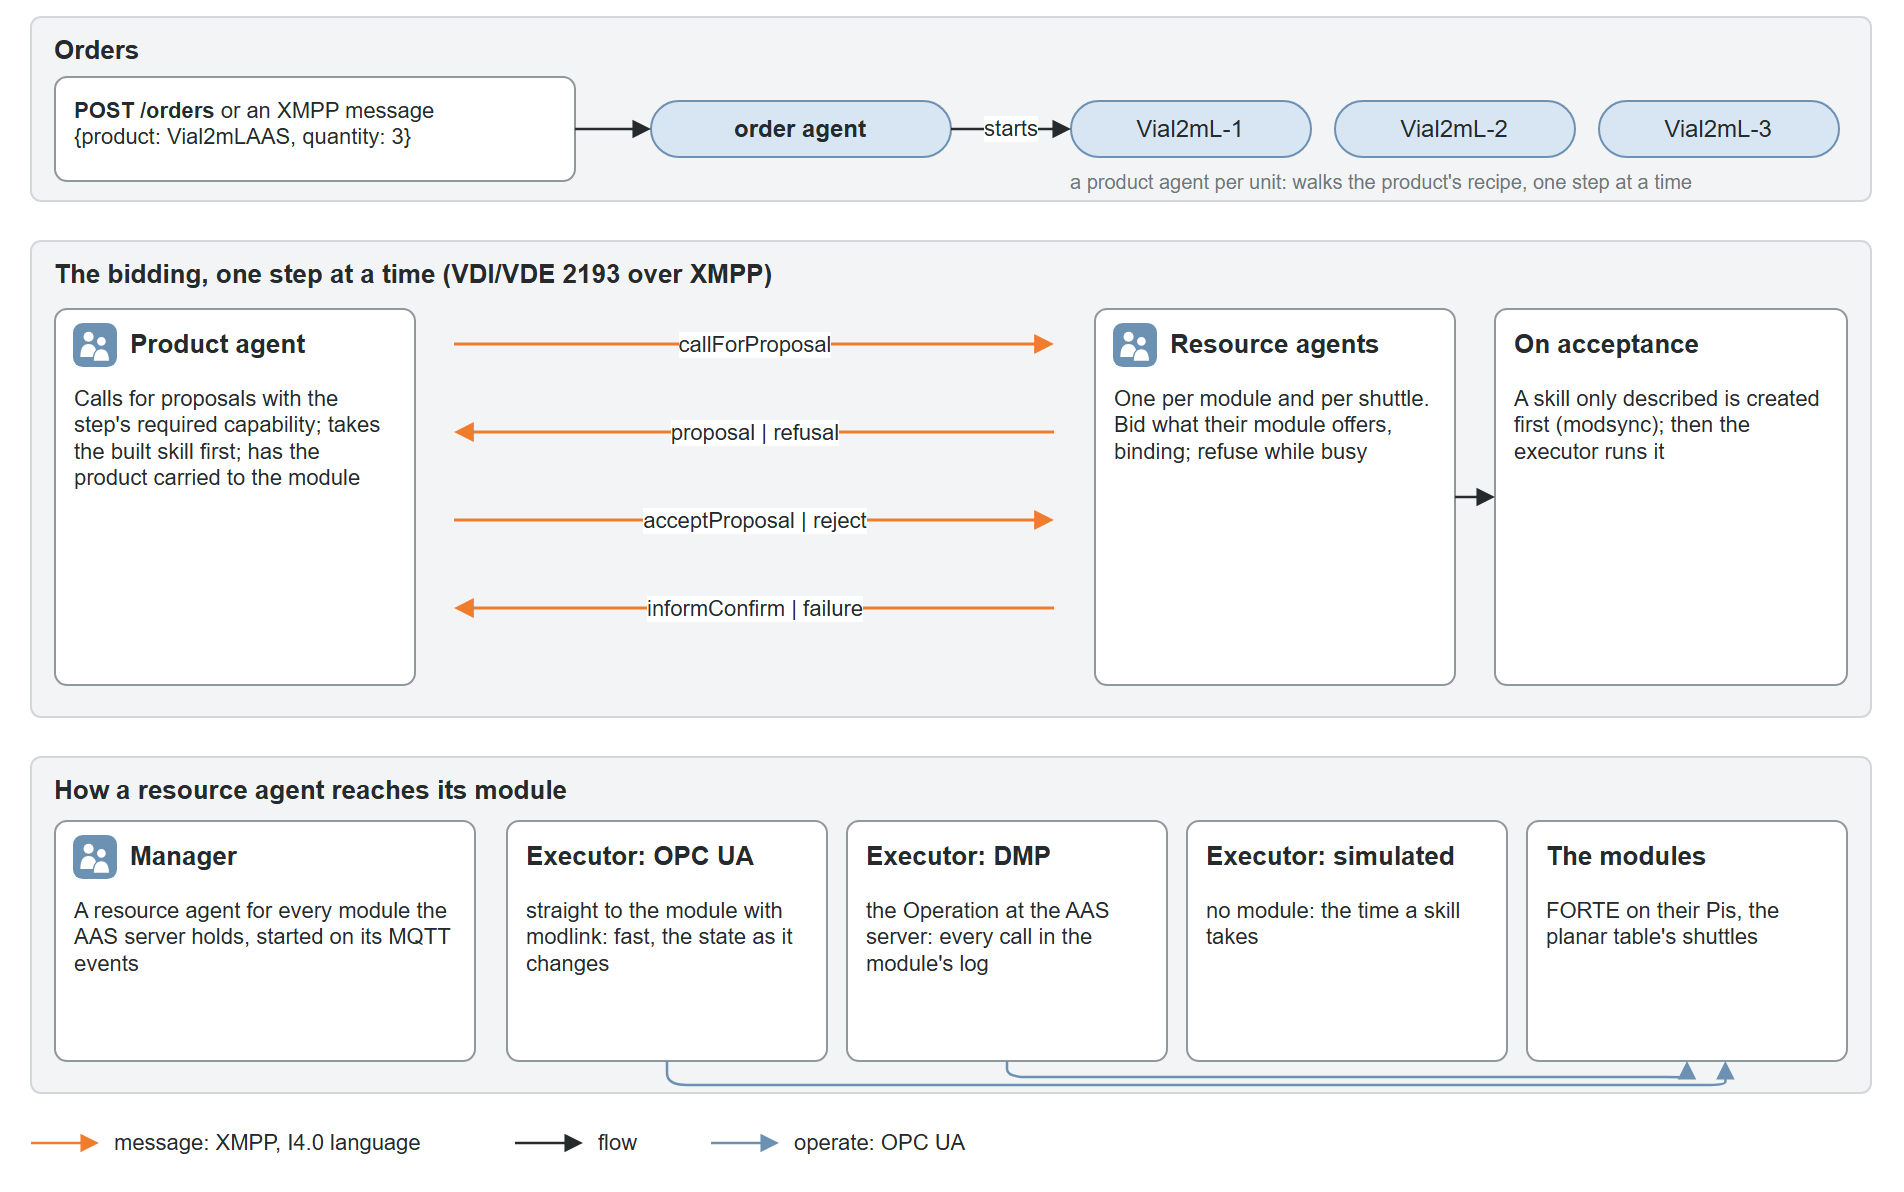
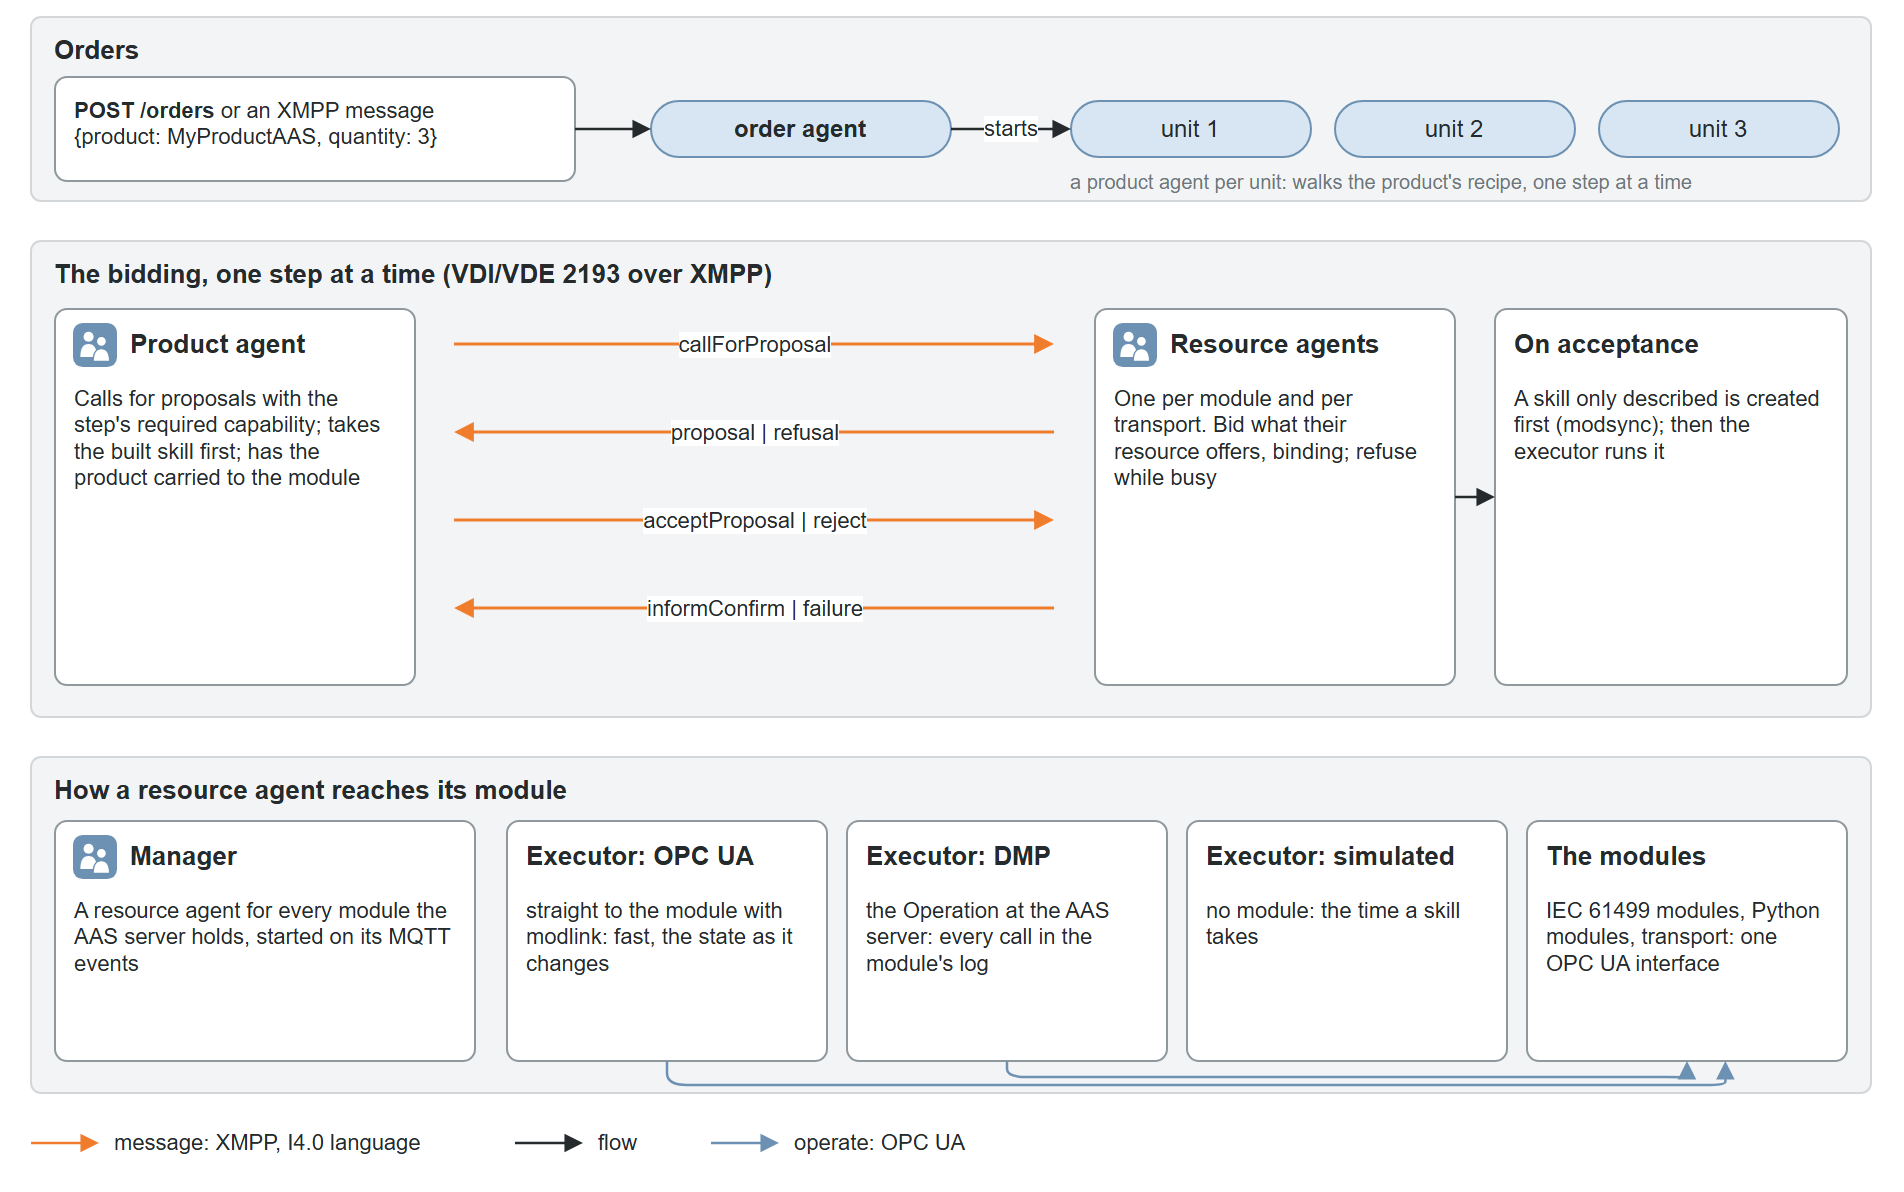
Execution pages and figures: choose an orchestrator; wrap any machine as a module

diff --git a/docs/execution/agents.md b/docs/execution/agents.md
@@ -2,9 +2,9 @@
 
 <span class="pillar execution">Execution</span> `lineagents`: the multi-agent orchestrator. A product
 agent per unit ordered walks its product's recipe and asks for one step at a time; a resource agent per
-module and per shuttle bids for the steps its resource can carry out and carries out the steps it wins.
-SPADE over XMPP, speaking the I4.0 language of VDI/VDE 2193. Folder `line-agents/`; becomes the
-`lineagents` repository.
+module and per transport bids for the steps its resource can carry out and carries out the steps it
+wins. SPADE over XMPP, speaking the I4.0 language of VDI/VDE 2193. Repository
+[AAS-MAS](https://github.com/AAU-AASPIRE/AAS-MAS).
 
 <figure markdown="span">
   [![Orders starting a product agent per unit; the bidding between a product agent and the resource
@@ -18,16 +18,16 @@ SPADE over XMPP, speaking the I4.0 language of VDI/VDE 2193. Folder `line-agents
 
 | Part | Runs | Does |
 | --- | --- | --- |
-| A module | its Raspberry Pi: FORTE and the module's program | Occupation, its states, its skills over OPC UA; announces itself |
+| A module | its own controller: FORTE and the module's program | Occupation, its states, its skills over OPC UA; announces itself |
 | Its AAS | the AAS server | What it is and offers |
 | **The manager** | the server (`python -m lineagents`) | A resource agent for every module the AAS server holds, started on the server's MQTT events and stopped when the AAS goes; the order agent |
 | **The order agent** | in the manager | Takes an order (product, quantity) over XMPP or HTTP and starts a product agent per unit |
 | **A product agent** | in the manager | Walks its product's steps: calls for proposals, chooses, has the product carried to the module, reports to whoever ordered |
 | **A resource agent** | in the manager | Bids what its resource offers; creates a described skill first when its bid is accepted; runs the skill |
 
-Agents run on the server, not on the Pis: the Pi runs the module's control program and nothing that
-decides. The module stays what it is delivered as, an IEC 61499 program and an AAS, and the agents
-stay replaceable.
+The agents run on the server, not on the modules' devices: a device runs the module's control program
+and nothing that decides. The module stays what it is delivered as, an IEC 61499 program and an AAS,
+and the agents stay replaceable.
 
 ## The bidding
 
@@ -36,11 +36,11 @@ every resource agent. Each answers with a **proposal** (the offered capability t
 the skill that realizes it, whether it is built or only described) or a **refusal**. A proposal is
 binding: the resource refuses others, saying it is busy, until the product agent decides. The product
 agent takes a proposal whose skill is built before one that needs a reconfiguration, has the product
-carried to the module by a shuttle, **accepts** it and rejects the rest; the resource agent **informs**
-of the result or of the failure. A failed step is asked for again of the others.
+carried to the module, **accepts** it and rejects the rest; the resource agent **informs** of the
+result or of the failure. A failed step is asked for again of the others.
 
 Custody decides who may carry a product: a resource holds a product from the Receiving it carried out
-until the Releasing, and only the shuttle that holds a product transports it.
+until the Releasing, and only the transport that holds a product moves it.
 
 ## Reaching the module
 
@@ -53,20 +53,19 @@ until the Releasing, and only the shuttle that holds a product transports it.
 ## Use it
 
 ```powershell
-python -m pip install -e ".[agents]"
-python -m lineagents --aas http://localhost:8081 --embedded                        # a resource agent per module
-python -m lineagents --aas http://localhost:8081 --embedded --order Vial2mLAAS:3   # ... and three vials
-python -m lineagents --aas http://localhost:8081 --mqtt localhost:1883 --http 8095  # in the lab stack (Prosody)
+python -m pip install -e AAS-MAS
+python -m lineagents --aas http://localhost:8081 --embedded                          # a resource agent per module
+python -m lineagents --aas http://localhost:8081 --embedded --order <Product>AAS:3   # ... and three units
+python -m lineagents --aas http://localhost:8081 --mqtt localhost:1883 --http 8095    # in the server stack (Prosody)
 ```
 
-`--embedded` runs SPADE's own XMPP server in the process; in the lab stack the agents use Prosody.
+`--embedded` runs SPADE's own XMPP server in the process; in the server stack the agents use Prosody.
 `--executor opcua|dmp|simulated` chooses how skills run; `--http` takes orders over HTTP too
-(`POST /orders {"product": "Vial2mLAAS", "quantity": 3}`).
+(`POST /orders {"product": "<Product>AAS", "quantity": 3}`).
 
-Built since 30 October 2026: discovery to agent within seconds, bidding, transport by the shuttles with
-custody (on simulated shuttles), a step that needs a reconfiguration. To come before the demo in
-January: the loading and unloading modules, the agents on the filling Pi, a planned skill in a bid,
-failure handling, the Orders app.
+Start with `--executor simulated` to watch the bidding without any hardware, then switch to `opcua`
+against [a module on a PC](../how-to/simulation.md).
 
-Read further: [agents.md](https://github.com/AAU-AASPIRE/aaspire-internal/blob/main/docs/agents.md),
-[agents-literature.md](https://github.com/AAU-AASPIRE/aaspire-internal/blob/main/docs/agents-literature.md).
+Built: discovery to agent within seconds, bidding, transport with custody (on simulated shuttles), a
+step that needs a reconfiguration. Still to come: a planned skill in a bid, failure handling, the
+Orders app.

diff --git a/docs/execution/index.md b/docs/execution/index.md
@@ -2,28 +2,30 @@
 
 <span class="pillar execution">Execution</span> A product is made by running its recipe's steps on the
 line's resources. Which resource does which step, and when, is the orchestrator's decision. AASPIRE
-runs one line with two orchestrators, and only the orchestration differs between them.
+keeps everything below the orchestrator the same, so you can choose how the line is orchestrated, and
+change your mind later.
 
-| Orchestrator | How it decides | Built by |
+| Orchestrator | How it decides | In AASPIRE |
 | --- | --- | --- |
-| **Centralized** | FOND-AAS plans a policy for the order with PDDL from the AASs; the BT controller runs it as a behaviour tree (watched in Groot2) | the colleagues (Schwörer et al.) |
-| **Multi-agent** | A product agent per unit asks for one step at a time; the resources' agents bid; the product agent chooses ([line agents](agents.md)) | this repository (`lineagents`) |
+| **Centralized** | A planner makes a policy for the order (PDDL, from the AASs); a behaviour tree runs it | bring your own planner and behaviour tree; they read the same AASs |
+| **Multi-agent** | A product agent per unit asks for one step at a time; the resources' agents bid; the product agent chooses | [line agents](agents.md) (`lineagents`) |
 
-## What both share
+## What every orchestrator shares
 
 | Shared | What it is |
 | --- | --- |
-| The models | The resource, product and process AASs: skills, capabilities, interfaces, variables; the product's recipe. Both start from the same order |
+| The models | The resource, product and process AASs: skills, capabilities, interfaces, variables; the product's recipe. Every orchestrator starts from the same order |
 | The modules | ModLib's behaviour in IEC 61499: occupation, the PackML module state, each skill's state machine, the skills as OPC UA methods |
 | Running a skill | The same five steps, by the same route (below) |
 | Integration | Registration and discovery; the DMP |
 | Reconfiguration | A planned or described skill created online by modsync before it runs |
-| The line | The same modules, the [planar table](planar-controller.md), the simulators |
+| The line | The same modules, the transport, the simulators |
 
 ## Running a skill
 
 Every orchestrator runs a skill on a module the same way, straight over OPC UA
-([modlink](../integration/modlink.md)) or through the AAS server and the [DMP](../integration/dmp.md):
+([modlink](../integration/modlink.md)) or through the AAS server and the [DMP](../integration/dmp.md).
+If you write an orchestrator of your own, this is all it needs to do per step:
 
 1. **occupy** the module with a session id: from then on only that session commands it;
 2. **bring it to Execute** (Clear, Reset, Start, as its PackML state needs);
@@ -31,15 +33,19 @@ Every orchestrator runs a skill on a module the same way, straight over OPC UA
 4. **wait for its end**: Succeeded, Failed or Aborted, with an error id and the results;
 5. **release** the module.
 
-Occupation is also the handover between the two orchestrators: whoever holds a module commands it, so
-the line passes from one to the other between orders, once every module is released.
+Occupation is also the handover between orchestrators: whoever holds a module commands it, so a line
+can pass from one orchestrator to another between orders, once every module is released.
 
-## One scenario for both
+## Comparing orchestrators
 
-The comparison planned for the journal paper: one scenario of orders and events (a module failing, a
-rush order, a module plugged in), run by both orchestrators and measured the same way: the time to
-finish the orders, the reaction to a failure, the time until a module plugged in is used, and the work
-to set each up.
+Because only the orchestration differs, two orchestrators can be compared fairly: run one scenario of
+orders and events (a module failing, a rush order, a module plugged in) with each, and measure the time
+to finish the orders, the reaction to a failure, the time until a module plugged in is used, and the
+work to set each up.
 
-Read further: [framework-plan.md](https://github.com/AAU-AASPIRE/aaspire-internal/blob/main/docs/framework-plan.md),
-section 1; [agents.md](https://github.com/AAU-AASPIRE/aaspire-internal/blob/main/docs/agents.md).
+## Machines that are not IEC 61499 modules
+
+A robot or a transport system with its own controller joins the line by offering the same interface:
+occupation, PackML states and skills over OPC UA, and an AAS. The
+[planar controller](planar-controller.md) does this for a planar motor table; `modpy` in
+aaspire-tools does it for a module written in Python.

diff --git a/docs/execution/planar-controller.md b/docs/execution/planar-controller.md
@@ -1,8 +1,11 @@
 # Planar controller
 
-<span class="pillar execution">Execution</span> `planar-controller`: controls a Planar Motor table and
-offers it over OPC UA, built like the generated IEC 61499 modules, so the orchestrators treat the table
-and each shuttle as modules. Python in Docker. Submodule `planar-controller/`.
+<span class="pillar execution">Execution</span> How to bring a machine with its own controller into
+the line: wrap it so that it offers the same interface as every IEC 61499 module (occupation, PackML
+states, skills over OPC UA) and give it an AAS. The orchestrators then treat it as one more module.
+`planar-controller` does this for a Planar Motor table, offering the table and each shuttle as
+modules; follow the same pattern for a robot, a conveyor or any other machine. Python in Docker.
+Repository [planar-controller](https://github.com/AAU-AASPIRE/planar-controller).
 
 <figure markdown="span">
   [![The table with its xbots on a grid of flyways, the controller and its modules over OPC UA, and its
@@ -25,7 +28,9 @@ The table (`PlanarTable`) and one module per xbot (`PlanarShuttle<N>`), in the n
 | `Equipment/Xbot/X`, `Y`, `Rz`, `XbotState` | a shuttle's live pose |
 | `Equipment/PMC/Connected`, `Columns`, `Rows`, `FlywaySize`, `Holes` | the table's layout as the PMC reports it |
 
-Every method answers `[Accepted, ErrorID]` at once; an accepted move ends when the xbot has arrived.
+This is the interface to copy for your own wrapper: the same folders, the same methods with a session
+id, the same states and the same `[Accepted, ErrorID]` answers. Every method answers at once; an
+accepted move ends when the xbot has arrived.
 The table's Reset connects to the PMC, takes mastership and levitates the xbots; its Stop and Abort
 reach every shuttle, so one Reset and one Start of the table bring everything up.
 
@@ -38,14 +43,14 @@ reads at every Reset.
 
 `modreg profile planar` describes the table and each shuttle as modules, with the table's frame
 (Columns, Rows, FlywaySize) and the flyways' coordinates. Each shuttle gets a resource agent that
-receives a product, carries it to a module's station and releases it ([line agents](agents.md)).
+receives a product, carries it to a module's transfer point and releases it ([line agents](agents.md)).
 
 ## Use it
 
 ```bash
-./install.sh --pmc-ip 192.168.10.100 --autostart     # on a Linux machine that reaches the PMC
+./install.sh --pmc-ip <PMC address> --autostart      # on a Linux machine that reaches the PMC
 docker compose up -d --build                          # or from a clone; settings in .env
 PMC_IP=127.0.0.1 AUTOSTART=1 python -m planar         # without Docker, against the PMC's simulator
 ```
 
-The controller's own README in the submodule lists every setting and error id.
+The controller's own README lists every setting and error id.
